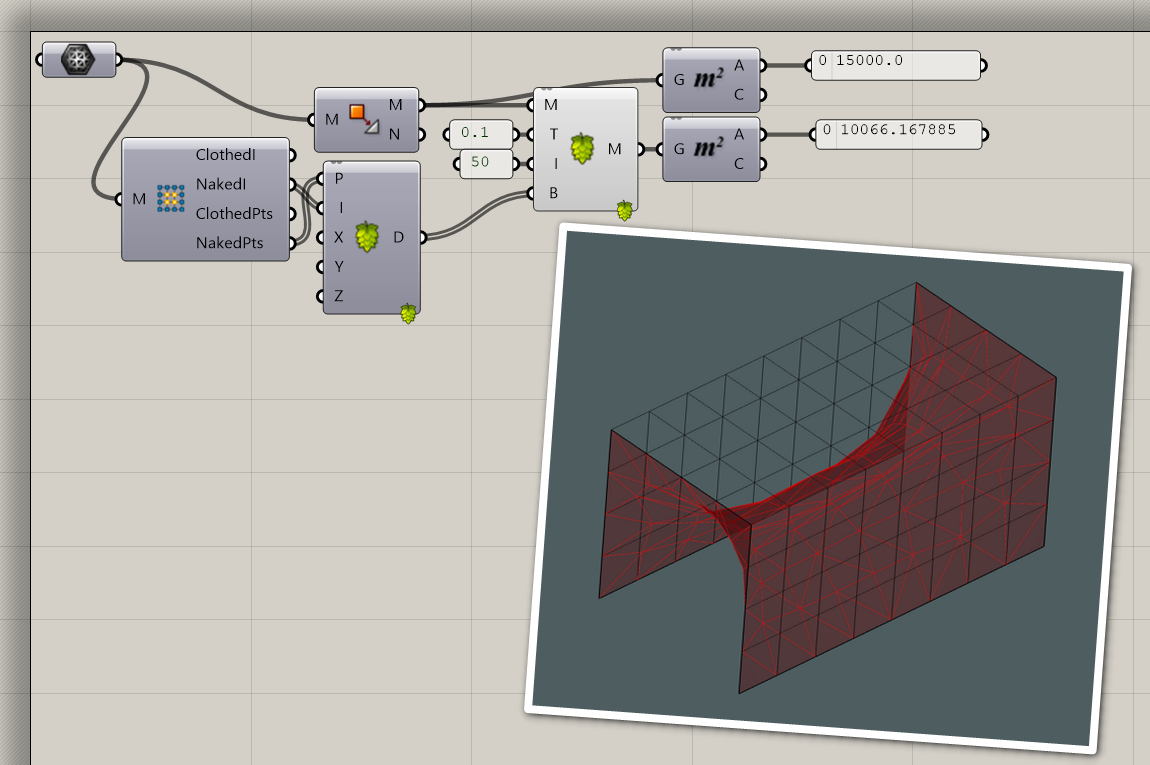
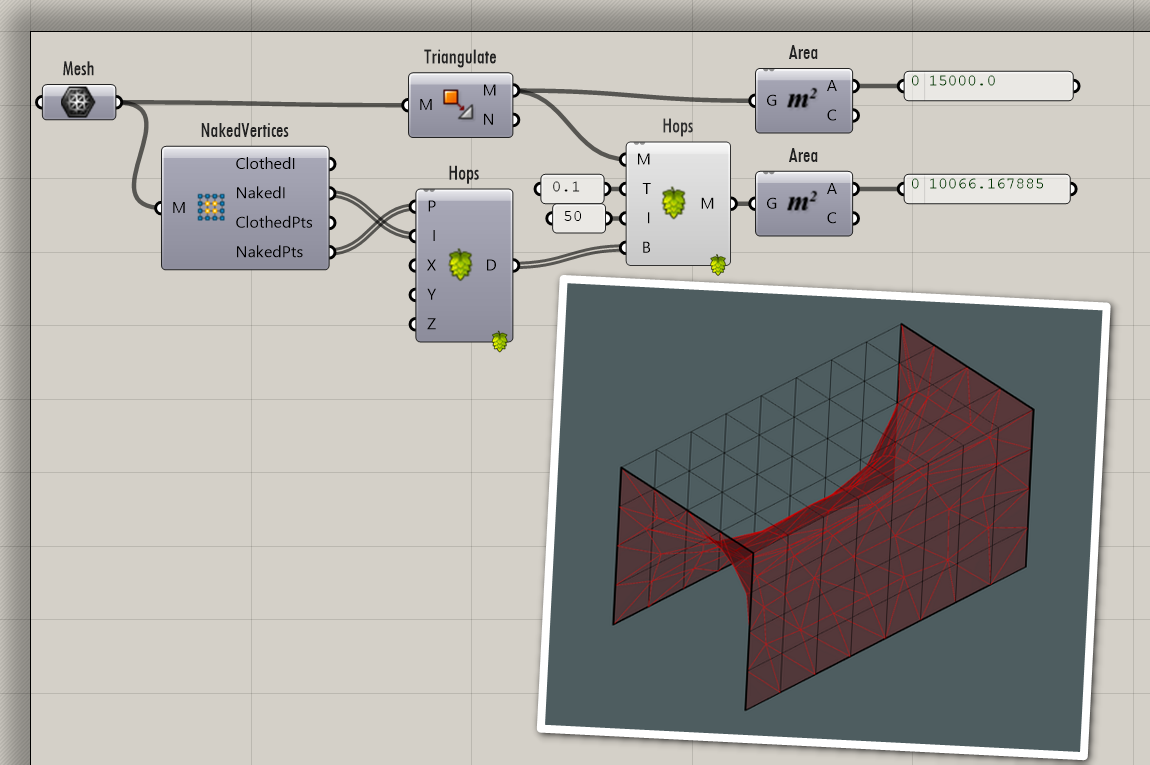
Document some of the components

Changed region(s): [[0.0304, 0.0301, 1.0, 1.0]]

diff --git a/README.md b/README.md
@@ -47,7 +47,7 @@ To connect a hops component to the *hops component server*, you need to point it
 
 ![Connecting the component to the `minimize` endpoint](images/set-hops-endpoint-02.png)
 
-### Run a simulation
+## Simulation component
 
 To run a simulation, the hops component for the `/minimize` endpoint expects 4 inputs:
 
@@ -57,3 +57,35 @@ To run a simulation, the hops component for the `/minimize` endpoint expects 4 i
 - Boundary conditions, the boundary conditions that should act on individual vertices of the mesh. Typically you would at least define a few *vertex anchors* to not have the simulation collapse on itself.
 
 ![A simple minimization simulation](images/simple-minimization-screencap.png)
+
+## Boundary Condition components
+
+In `MinSrfLib`, there are several options to define certain *boundaries* the simulation **must** adhere to:
+
+- Vertex anchors, those anchors will never move during the simulation
+- *Partial* vertex anchors, those anchors constrain their vertices in any combination of global $x$, $y$ and $z$ direction
+- On circle, will constrain the given vertices to a circle boundary
+- On line, will constrain the given vertices to a line **(WIP)**
+
+### Vertex Anchors
+
+wip
+
+### Partial Vertex Anchors
+
+Here users have the opportunity to constrain vertices to any combination of the global coordinate axes. This can be useful to keep vertices on a conceptual grid f.e.
+
+![Comparison, inner vertices free / constrained in x direction](images/vertex-x-constrained.png)
+
+As shown in the above, the first simulation has the inner vertices free, which will typically yield better simulation results, while the second (lower) simulation constrained the inner vertices in one direction, keeping the initial grid the vertices layed on intact in the front view.
+
+![Detailed view of the comparison](images/vertex-x-constrained-detail.png)
+
+### On circle
+
+wip
+
+### On Line
+
+wip
+
